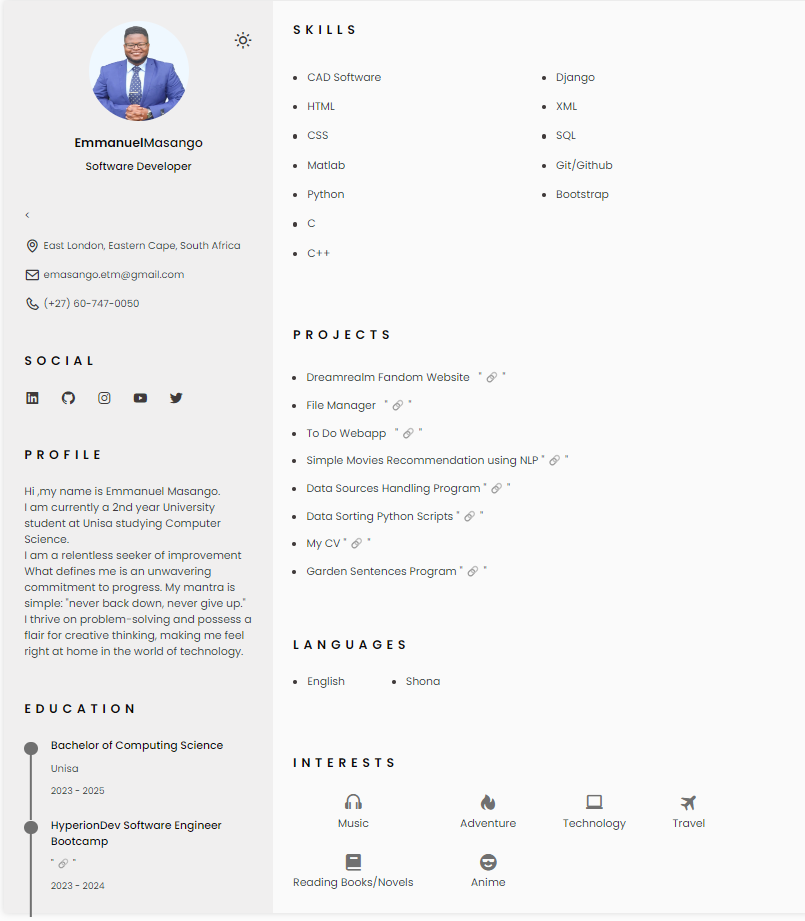
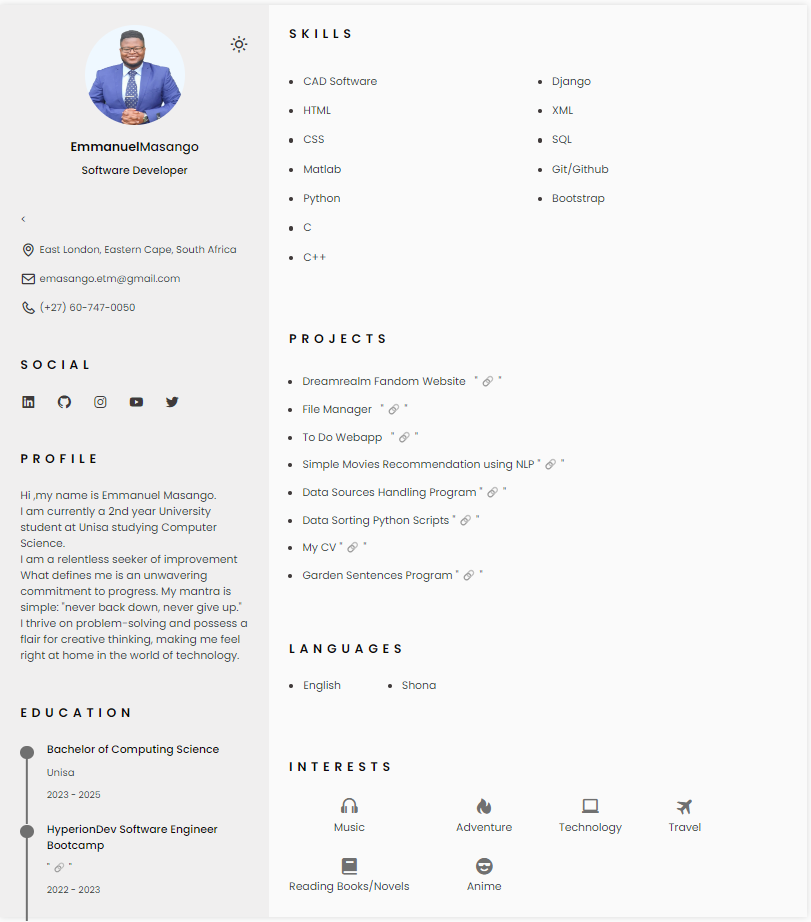
Updated Education Span

diff --git a/index.html b/index.html
@@ -13,7 +13,7 @@
 
         <title>CV-Emmanuel Masango</title>
     </head>
-    <body class="scale-cv dark-theme">
+    <body class="scale-cv light-theme">
         <!--========== HEADER ==========-->
         <header class="l-header" id="header">
             <nav class="nav bd-container">
@@ -167,7 +167,7 @@
                                     <h3 class="education__title">HyperionDev Software Engineer Bootcamp</h3>
                                     <span class="education__studies"><a href="https://www.hyperiondev.com/portfolio/99804/"
                                                                         target="_blank">" 🔗 "</a></span>
-                                    <span class="education__year">2023 - 2024</span>
+                                    <span class="education__year">2022 - 2023</span>
                                 </div>
                             </div>
                         </div>
